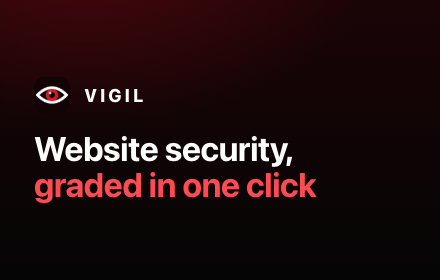
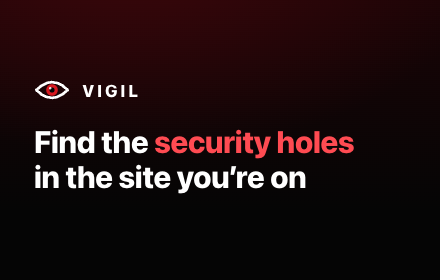
Rewrite the site and store copy so it reads like a person wrote it
The hero now says what Vigil does in plain words: "Find the security
holes in your website", followed by what it checks and what you get.
The eyebrow label is gone, and "in seconds", "plain-English" and
"ready-to-share" no longer appear anywhere. The same voice now runs
through the meta and link-preview text, the report panel, the consent
note, the extension summary, the store listing and the README. The
link-preview image and the store tile and screenshot are regenerated
to match.

Changed region(s): [[0.0591, 0.4571, 0.8273, 0.7429], [0.0591, 0.2857, 0.325, 0.3714]]

diff --git a/vigil/web/static/index.html b/vigil/web/static/index.html
@@ -5,13 +5,13 @@
 <meta name="viewport" content="width=device-width, initial-scale=1">
 <meta name="color-scheme" content="dark">
 <title>Vigil · Website Security Scanner</title>
-<meta name="description" content="Grade any website's security in seconds: headers, TLS, cookies, exposed files, known CVEs and email spoofing, with a plain-English fix and a ready-to-share PDF report.">
+<meta name="description" content="Vigil checks a website's HTTPS, security headers, cookies, exposed files, known vulnerabilities and email settings, grades it from A to F, and tells you how to fix each problem. Download the results as a PDF or Word report.">
 <link rel="icon" href="/static/favicon.svg?v=2" type="image/svg+xml">
 <link rel="icon" href="/static/favicon-32.png" sizes="32x32" type="image/png">
 <link rel="apple-touch-icon" href="/static/apple-touch-icon.png">
 <meta property="og:type" content="website">
-<meta property="og:title" content="Vigil · Website security, graded in seconds">
-<meta property="og:description" content="Headers, TLS, cookies, exposed files, known CVEs and email spoofing, with a plain-English fix for every finding.">
+<meta property="og:title" content="Vigil · Find the security holes in your website">
+<meta property="og:description" content="Checks HTTPS, headers, cookies, exposed files, known vulnerabilities and email spoofing, then tells you how to fix each problem.">
 <meta property="og:url" content="__ORIGIN__/">
 <meta property="og:image" content="__ORIGIN__/static/og.png">
 <meta property="og:image:width" content="1200">
@@ -87,9 +87,8 @@
   <section class="hero">
 
 
-    <p class="eyebrow">Passive · Non-destructive scanning</p>
-    <h1>Website security,<br><span>graded in seconds</span></h1>
-    <p class="tag">Check a website's security headers, TLS, cookies, exposed files and email-spoofing protection.</p>
+    <h1>Find the <span>security holes</span> in your website</h1>
+    <p class="tag">Enter a web address. Vigil checks its HTTPS, headers, cookies, exposed files and email settings, grades it from A to F, and tells you how to fix each problem.</p>
 
     <form id="f">
       <div class="row">
@@ -143,8 +142,8 @@
         </div>
       </details>
 
-      <label class="auth"><input id="auth" type="checkbox"> I own these sites or have permission to test them.
-        Scans are passive and non-destructive, but they do request a handful of well-known file paths.</label>
+      <label class="auth"><input id="auth" type="checkbox"> <span>I own these sites or have permission to test them.
+        Vigil only reads the site and never changes anything, but it does ask for a few files that shouldn't be public, like <code>/.env</code>.</span></label>
       <div id="err" class="err" role="alert"></div>
     </form>
   </section>

diff --git a/vigil/web/static/app.css b/vigil/web/static/app.css
@@ -20,9 +20,8 @@ body::before { content:""; position:fixed; inset:0; z-index:-1; pointer-events:n
 
 main { position:relative; max-width:880px; margin:0 auto; padding:0 20px 80px }
 .hero { position:relative; text-align:center }
-.eyebrow { color:var(--accent-text); font-size:12px; font-weight:700; letter-spacing:.16em; text-transform:uppercase; margin:0 0 14px }
-h1 { font-size:clamp(34px,6vw,56px); line-height:1.05; font-weight:800; letter-spacing:-.02em; margin:0 auto; max-width:14ch }
-h1 span { color:var(--accent-text) }
+h1 { font-size:clamp(34px,6vw,56px); line-height:1.05; font-weight:800; letter-spacing:-.02em; margin:0 auto; max-width:16ch; text-wrap:balance }
+h1 span { color:var(--accent-text); white-space:nowrap }
 .tag { color:var(--muted); margin:16px auto 30px; max-width:52ch; font-size:16px }
 
 /* Dome security camera: the lens swings between fixed positions, holding at each one.

diff --git a/vigil/web/static/app.js b/vigil/web/static/app.js
@@ -76,7 +76,7 @@ function details(r) {
   body.append(el("div", { class: "report-panel" },
     el("div", { class: "report-copy" },
       el("strong", {}, "Get the full report"),
-      el("span", { class: "muted" }, "A ready-to-share document, formatted with your report options above.")),
+      el("span", { class: "muted" }, "A PDF or Word file you can send to whoever runs the site. It follows the report options above.")),
     el("div", { class: "report-actions" },
       el("button", { class: "btn btn-primary", type: "button", "data-preview": r.id }, "Preview report"),
       reportLink(r.id, ".pdf", { class: "btn btn-secondary", download: "" }, "⬇ Download PDF"),

diff --git a/docs/store/LISTING.md b/docs/store/LISTING.md
@@ -15,7 +15,7 @@ Upload `vigil-extension.zip`. Bump `version` in `extension/manifest.json` for ev
 **Name** (from the manifest): Vigil: Website Security Grade
 
 **Summary** (from the manifest, 132 characters max):
-Grade the site you're on in seconds: security headers, TLS, cookies, known CVEs and email spoofing, with a fix for every finding.
+Find the security holes in the site you're on (HTTPS, headers, cookies, known vulnerabilities, email spoofing) and how to fix them.
 
 **Category:** Developer Tools
 **Language:** English
@@ -23,9 +23,9 @@ Grade the site you're on in seconds: security headers, TLS, cookies, known CVEs 
 **Description:**
 
 ```
-Click the Vigil eye on any website and get an A–F security grade in seconds, with a plain-English fix for every problem it finds.
+Click the Vigil eye on any website to see how well it's protected. You get a grade from A to F, a list of the problems Vigil found, and how to fix each one.
 
-WHAT IT CHECKS
+What it checks
 • Security headers: HSTS, Content-Security-Policy, clickjacking protection, MIME sniffing, Referrer-Policy and more
 • HTTPS and TLS: plain-HTTP pages, missing redirects, invalid or expiring certificates, obsolete TLS 1.0/1.1
 • Cookies: missing Secure, HttpOnly and SameSite flags
@@ -33,12 +33,12 @@ WHAT IT CHECKS
 • Information disclosure: version banners in headers and page markup
 • Email spoofing: missing or weak SPF and DMARC records
 
-WHAT YOU GET
+What you get
 • A 0–100 score and A–F grade
-• Every finding ranked by severity, with what's wrong, the evidence, and exactly how to fix it
-• A full online report and a ready-to-share PDF
+• Every problem sorted by how serious it is, with what's wrong, what Vigil saw, and how to fix it
+• A full report online, plus a PDF you can send to whoever runs the site
 
-PASSIVE AND PRIVATE BY DESIGN
+What it doesn't do
 • Vigil only reads what the site already shows every visitor. It never probes for hidden files or sends attack payloads. For a deeper audit of a site you own, the extension links to the full scanner.
 • It does nothing until you click the icon, and never runs in the background.
 • Only the site's address (like https://example.com) is sent, never the page path, its content, your cookies or your browsing history.

diff --git a/README.md b/README.md
@@ -1,6 +1,6 @@
 # Vigil
 
-**Website security posture scanner.** Point it at a domain and in a few seconds you get a graded report covering security headers, TLS, cookies, exposed secrets, known CVEs in the software it runs, and email-spoofing protection, with a plain-English fix for every finding.
+**A website security scanner.** Give it a domain and it checks the security headers, TLS, cookies, exposed files, known vulnerabilities in the software the site runs, and email-spoofing protection. You get a grade from A to F and a fix for each problem it finds.
 
 ![CI](https://github.com/CantStopGreatness/vigil/actions/workflows/ci.yml/badge.svg)
 
